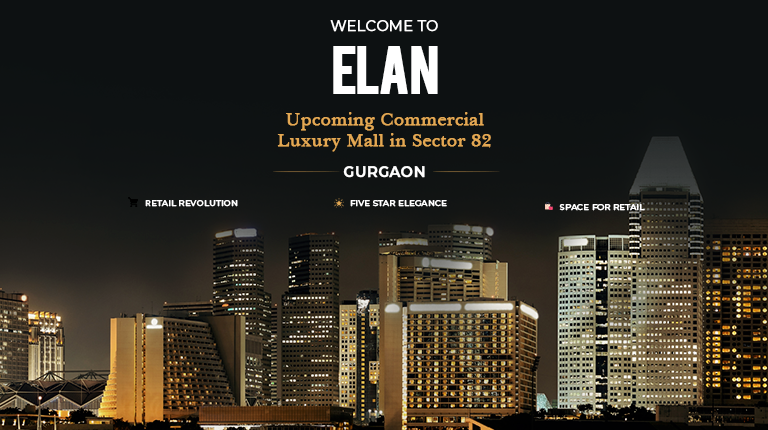
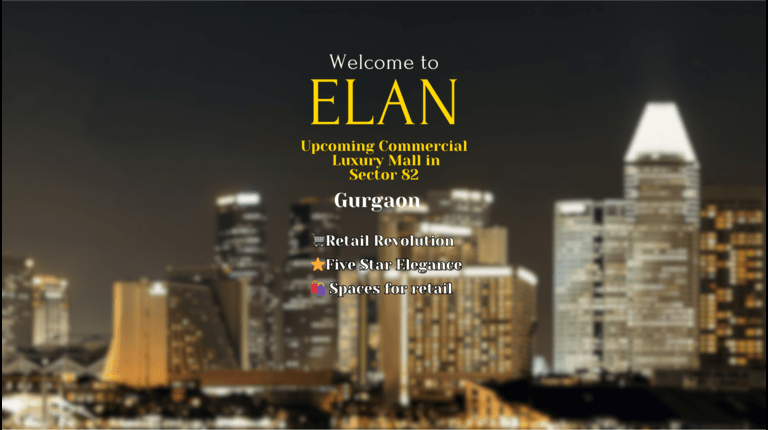
done

diff --git a/index.html b/index.html
@@ -136,6 +136,11 @@
          margin: 5px;
          color: #fff !important;
       }
+
+      .navbar-toggler-icon {
+         background-color: #d3b843;
+         /* Replace 'your-desired-color' with the color you want */
+      }
    </style>
 
    <div class="right-buttion" id='backToTop'>
@@ -146,8 +151,11 @@
 <body>
    <nav class="navbar navbar-expand-lg navbar-light bg-golden">
       <div class="container">
-         <h4 style="color: #d3b843; font-weight: bold; font-size: 30px;">Elan</h4>
-         <!-- <img src="elan-img/logo.png" class="img-fluid" alt="Responsive image"> -->
+         <!-- <h4 style="color: #d3b843; font-weight: bold; font-size: 30px;">Elan</h4> -->
+         <img src="elan-img/elan-logo.png" class="img-fluid" alt="Responsive image" style="
+         height: 35px;
+         width: 35;
+     ">
          <!-- <a class="navbar-brand" href="#">Navbar</a> -->
          <button class="navbar-toggler" type="button" data-toggle="collapse" data-target="#navbarSupportedContent"
             aria-controls="navbarSupportedContent" aria-expanded="false" aria-label="Toggle navigation">
@@ -190,7 +198,7 @@
       </div>
    </nav>
    <section class="section hiddenmob"
-      style="background: url('elan-img/Dekstop-Banner.png') center center;overflow: hidden;" id="SECTION1">
+      style="background: url('images/desktop-banner.png') center center;overflow: hidden;" id="SECTION1">
       <div class="container-2">
          <div class="row">
             <div class="col-xs-12 col-md-9 p-0 header-cantt">
